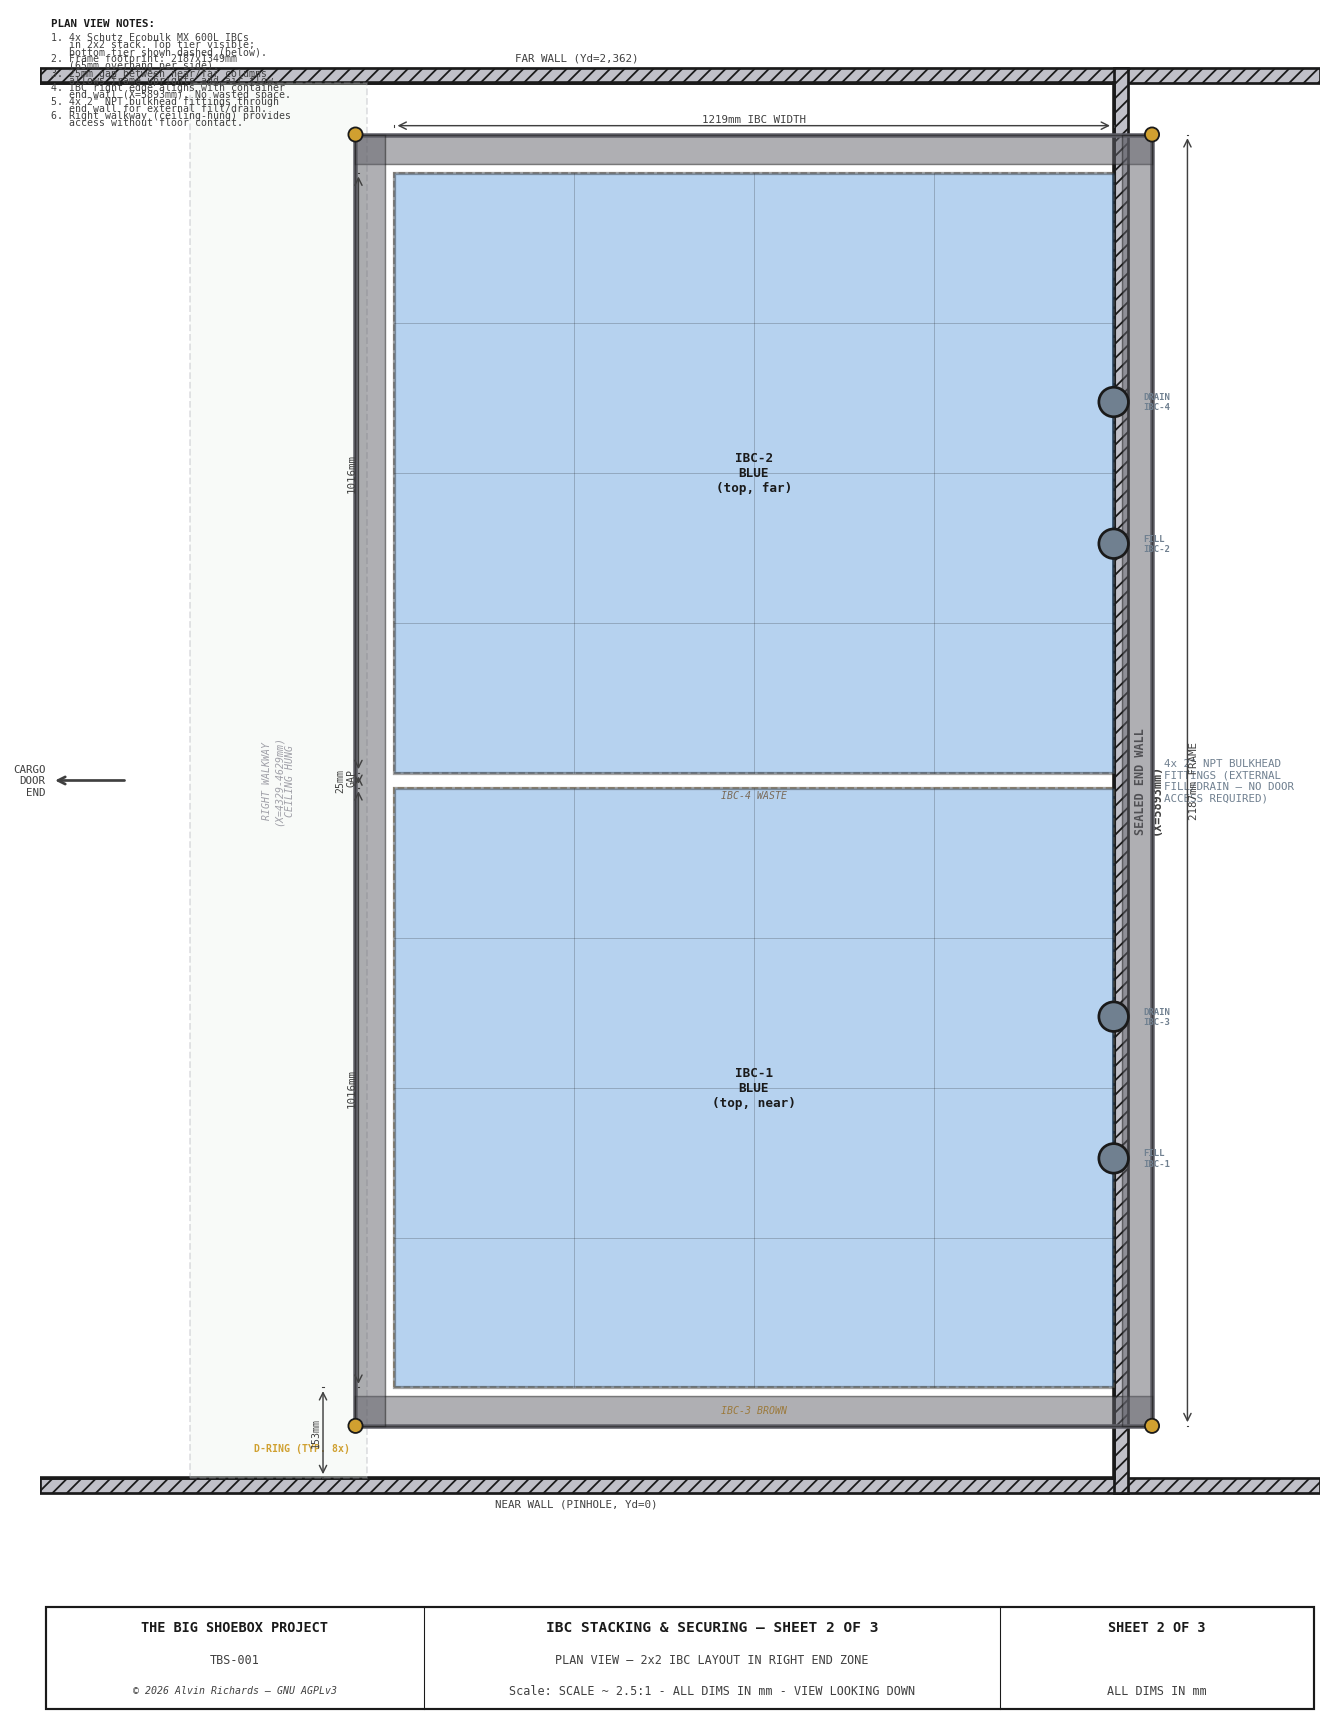
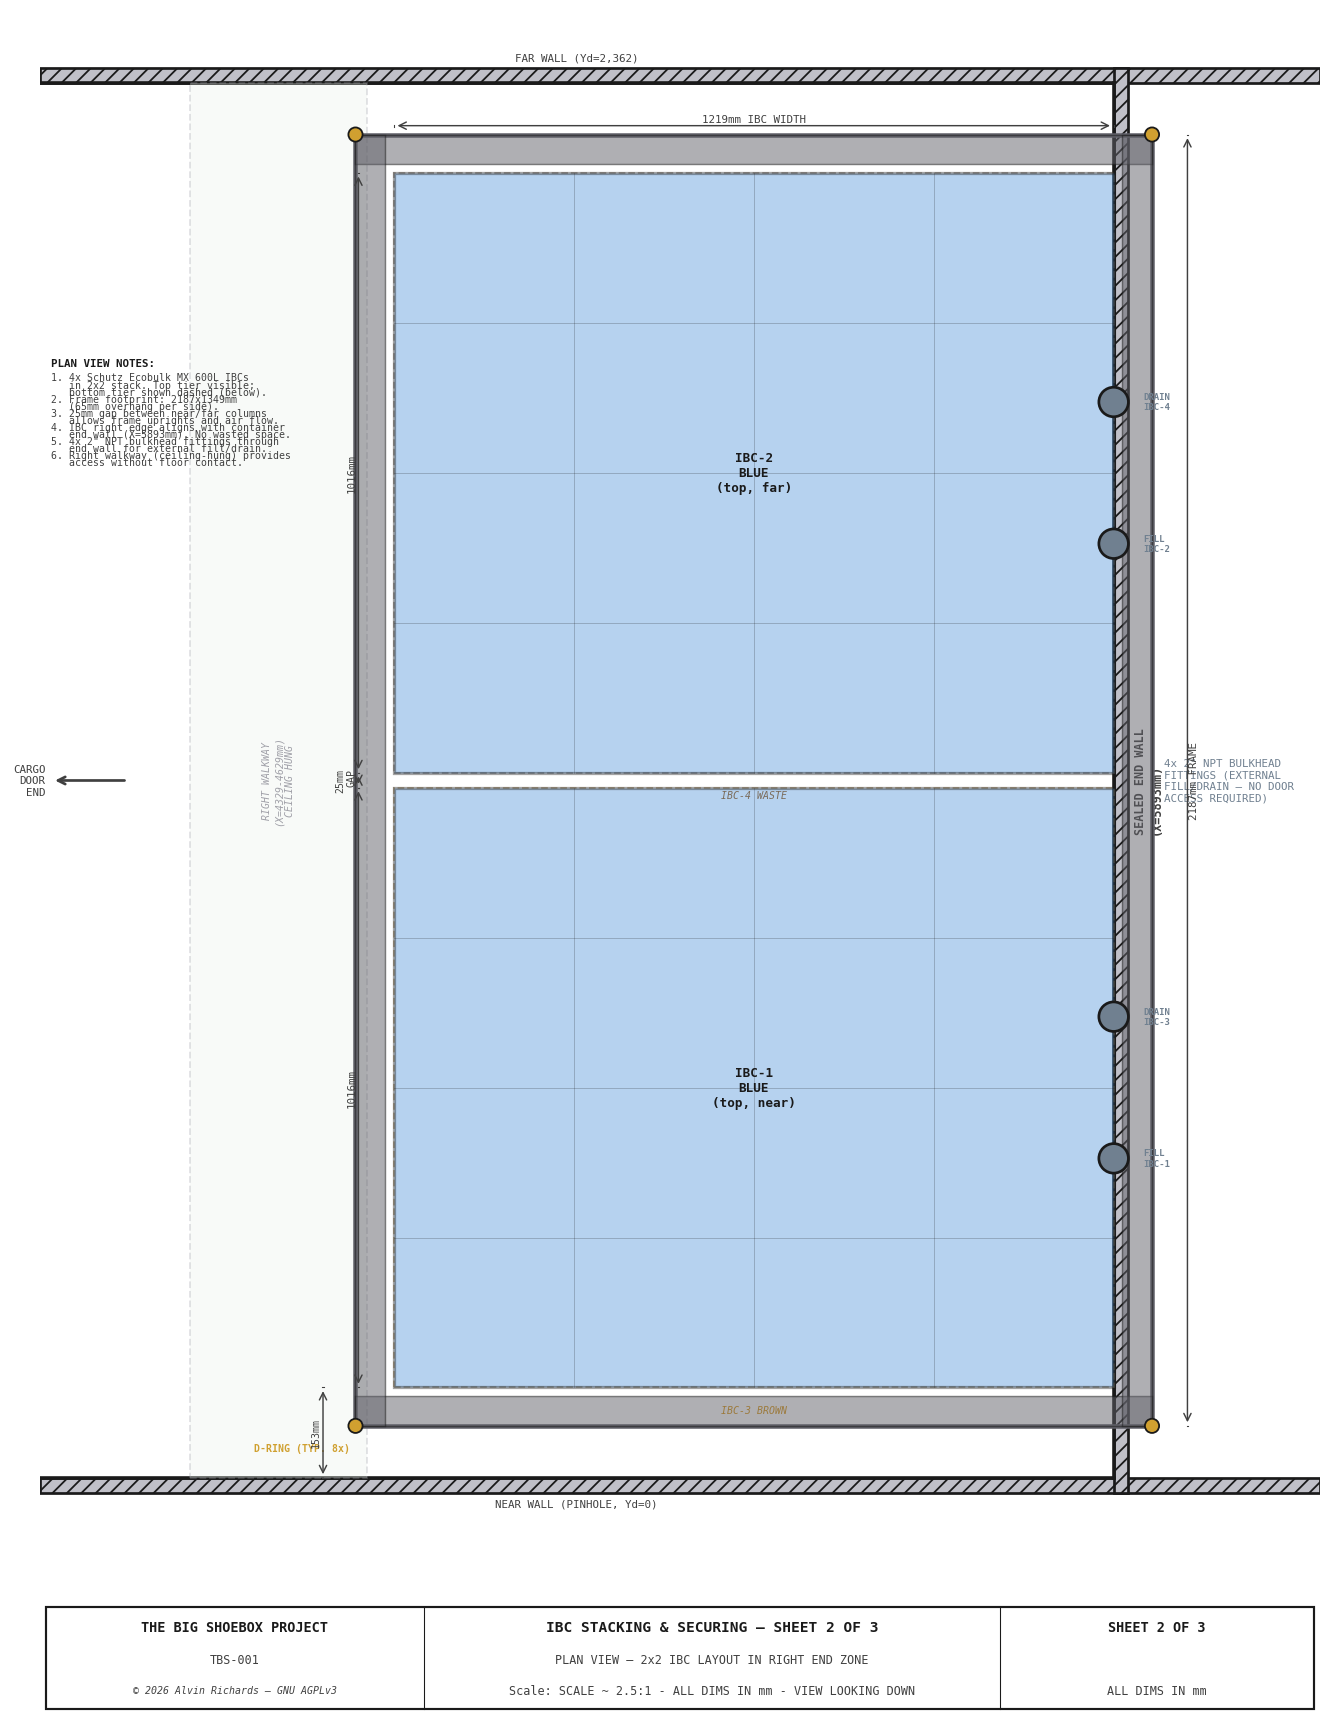
Reposition notes blocks on IBC stacking sheets 1 and 2
Sheet 1: moved notes to center axis below diagram.
Sheet 2: lowered notes block by 20% to clear diagram content.

Changed region(s): [[0.0308, 0.0, 0.2153, 0.0921], [0.0308, 0.2148, 0.2153, 0.2762]]

diff --git a/generate_ibc_stacking_diagram.py b/generate_ibc_stacking_diagram.py
@@ -352,8 +352,8 @@ def sheet1():
             fontweight="bold", **FONT, zorder=15)
 
     # ── Notes ─────────────────────────────────────────────────────────────────
-    notes_x = sx(YD_HI - 10)
-    notes_top = sy(C_HGT - 50)
+    notes_x = sx(C_WID / 2)
+    notes_top = sy(Z_LO + 480)
     notes = [
         "CROSS-SECTION NOTES:",
         "",
@@ -377,7 +377,7 @@ def sheet1():
     for i, line in enumerate(notes):
         bold = i == 0
         ax.text(notes_x, notes_top - i * sy(12), line,
-                ha="right", va="top", fontsize=6 if bold else 5.5,
+                ha="center", va="top", fontsize=6 if bold else 5.5,
                 color=C_OUT if bold else C_DIM,
                 fontweight="bold" if bold else "normal",
                 **FONT, zorder=15)
@@ -597,7 +597,7 @@ def sheet2():
 
     # ── Notes ─────────────────────────────────────────────────────────────────
     notes_x = px(X_LO + 20)
-    notes_top = py(YD_HI - 10)
+    notes_top = py(YD_HI - 10 - (YD_HI - YD_LO) * 0.20)
     notes = [
         "PLAN VIEW NOTES:",
         "",
